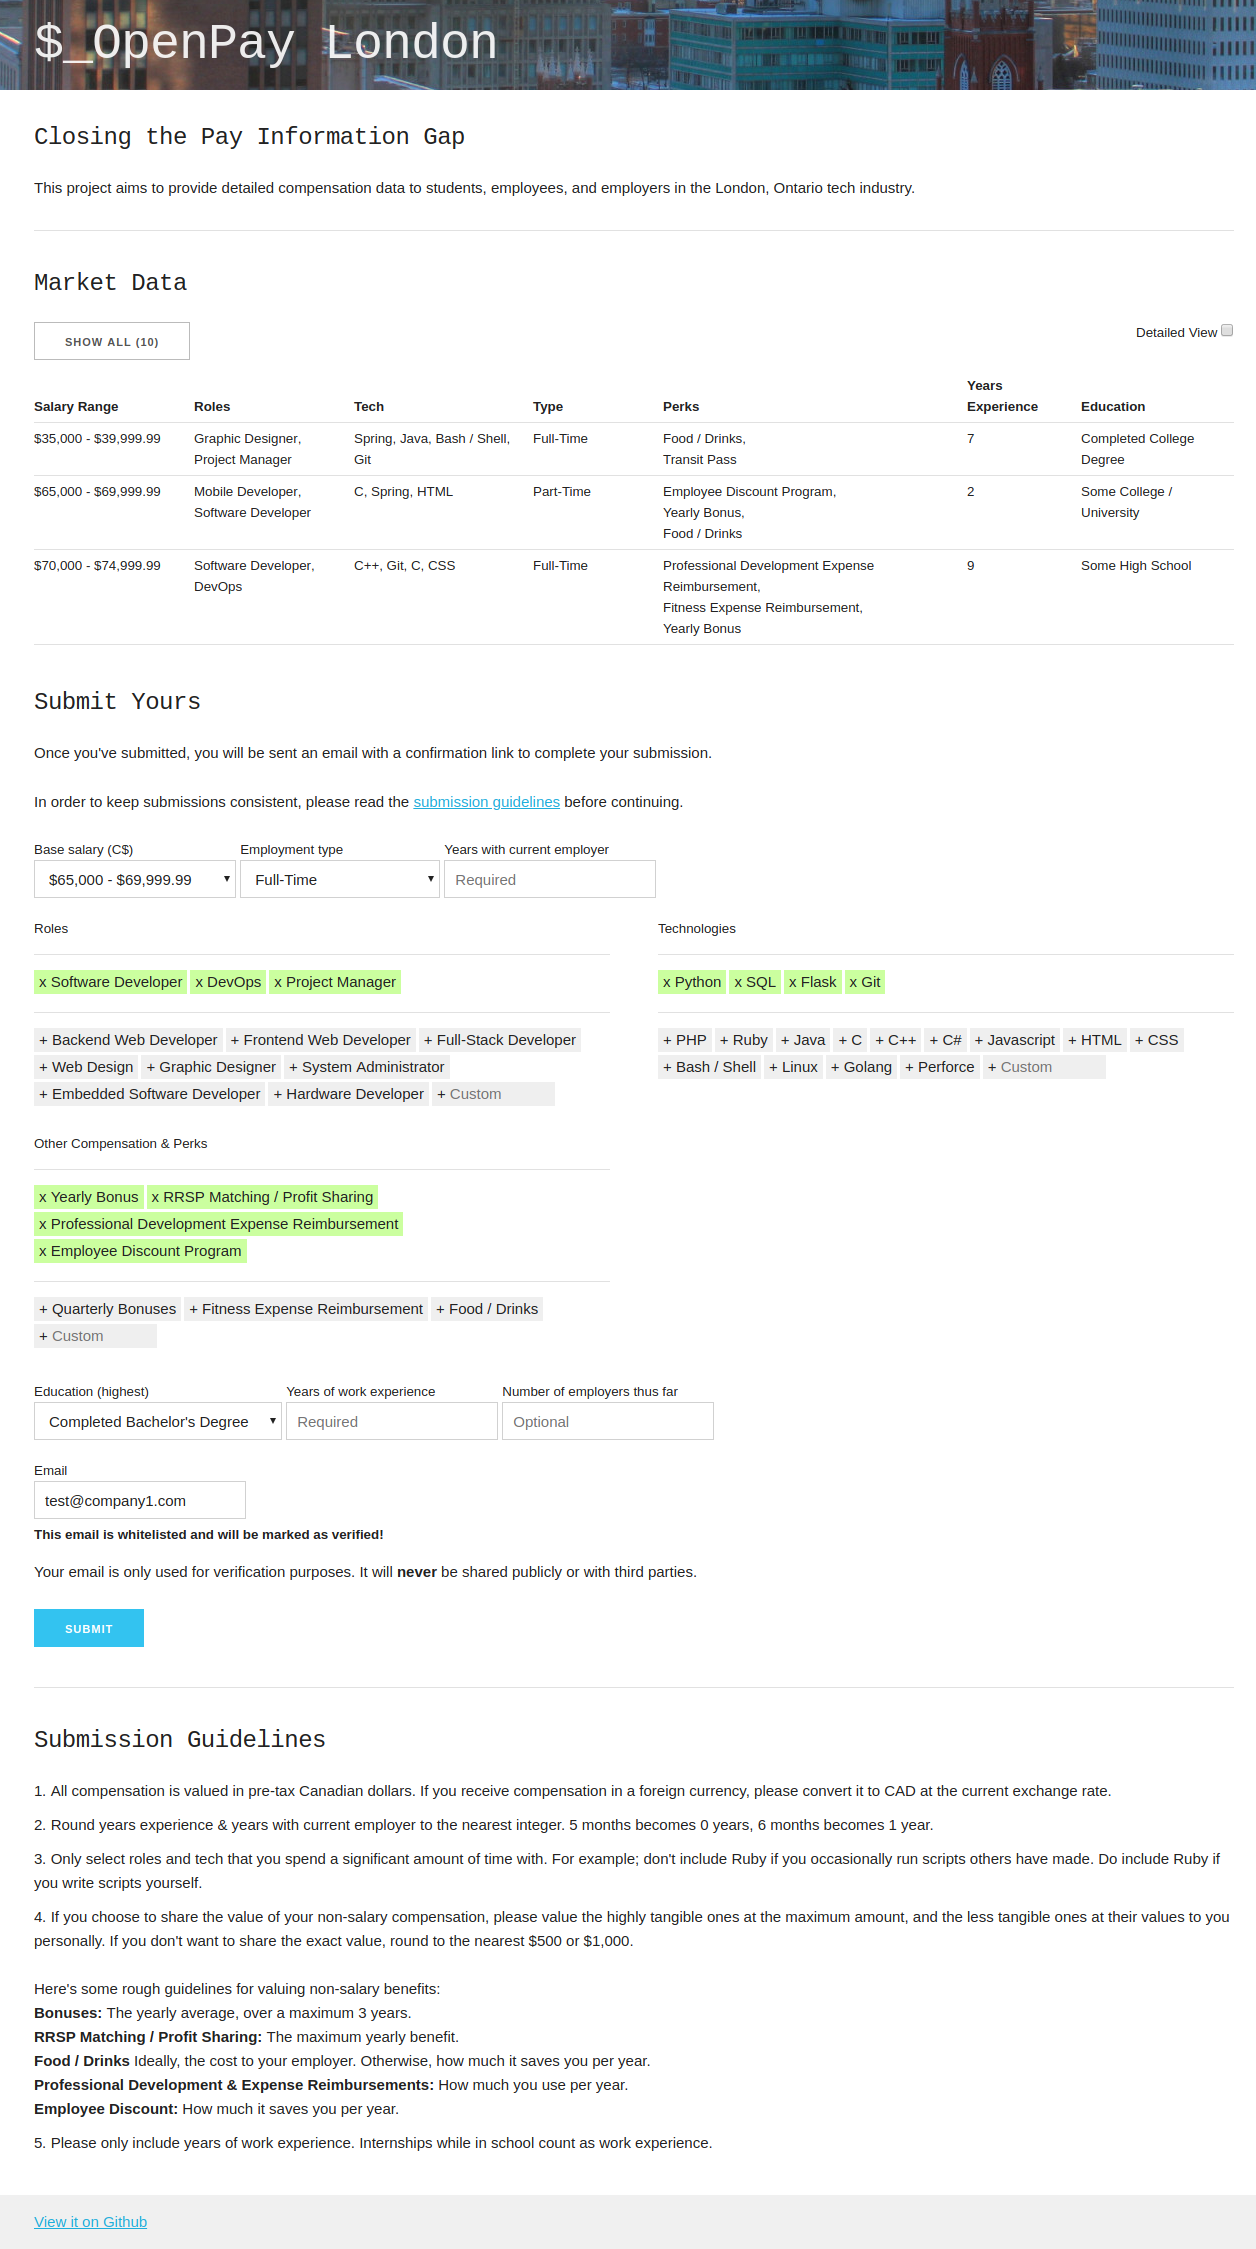
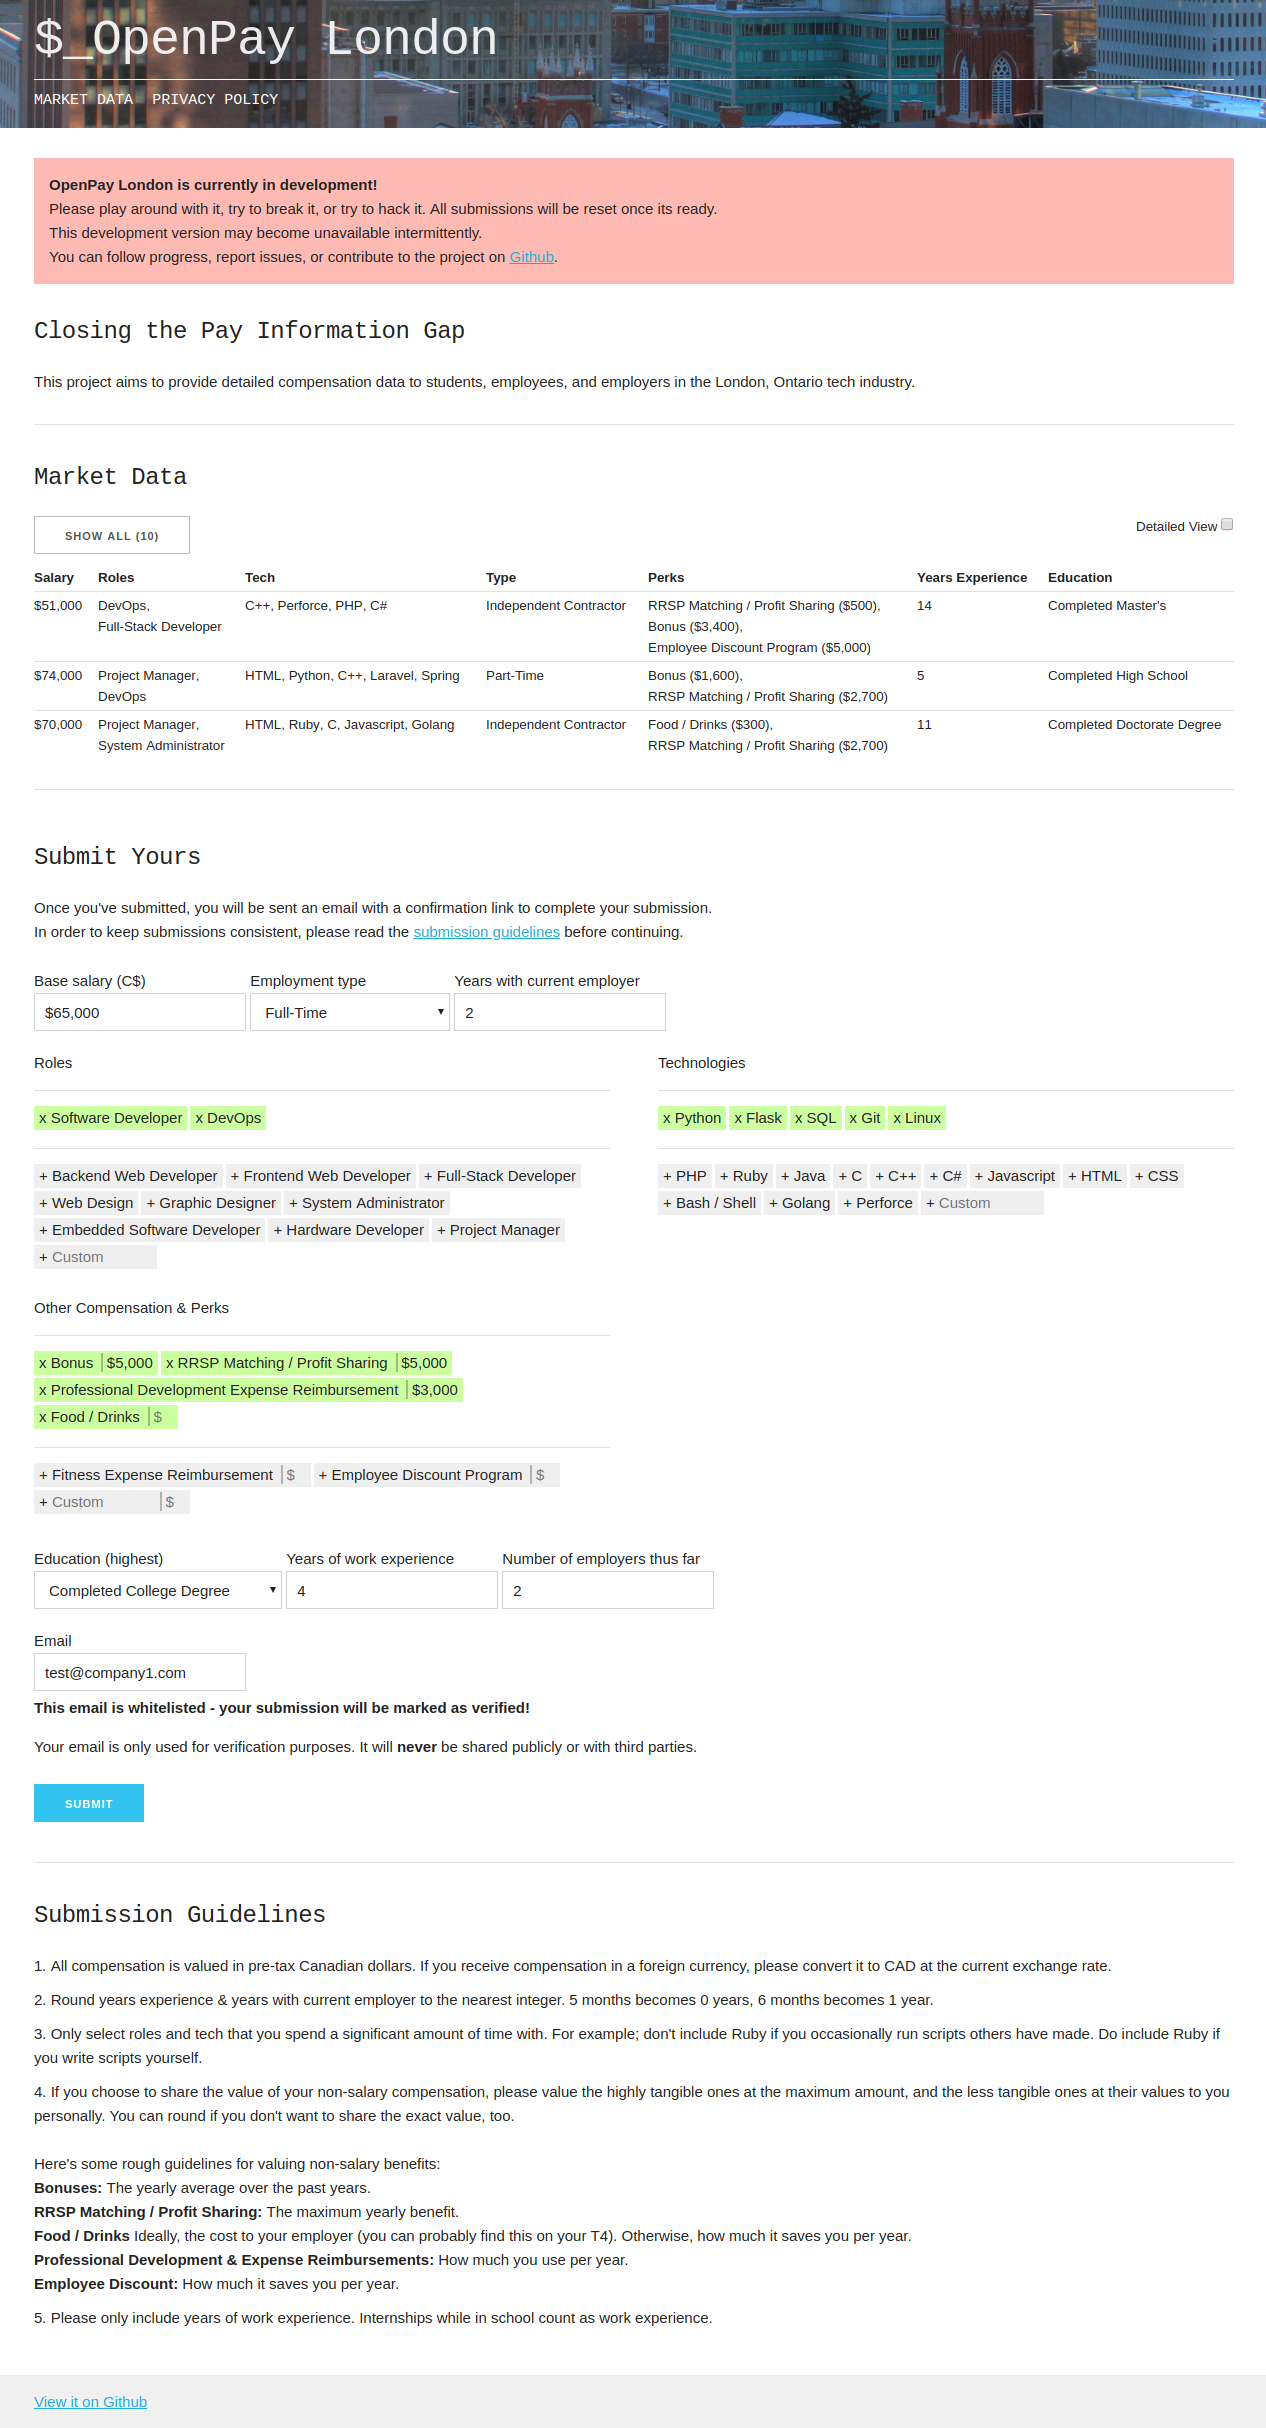
Added privacy policy, basic navigation menu, updated README

diff --git a/src/templates/app.html b/src/templates/app.html
@@ -3,7 +3,7 @@
 {% block content %}
 {% if is_debug %}
 <div class="container debug">
-    <p><strong>OpenPay London is currently in development!</strong></p>
+    <p><strong>{{ config['DEPLOYMENT_NAME'] }} is currently in development!</strong></p>
     <p>Please play around with it, try to break it, or try to hack it. All submissions will be reset once its ready.</p>
     <p>This development version may become unavailable intermittently.</p>
     <p>You can follow progress, report issues, or contribute to the project on <a href="https://github.com/olestourko/open-tech-pay">Github</a>.</p>
@@ -13,7 +13,7 @@
 <div class="container">
     <h5>Closing the Pay Information Gap</h5>
     <p>This project aims to provide detailed compensation data to students, employees, and employers in the
-    London, Ontario tech industry.</p>
+    {{ config['REGION_NAME'] }} tech industry.</p>
     <hr>
 </div>
 
@@ -23,15 +23,16 @@
         message_bus: message_bus,
         submissions: submissions
         "></market-data>
+        <hr>
     </div>
 </section>
-
 <section id="submission">
     <div class="container">
         <!-- ko if: !submitted() -->
             <h5>Submit Yours</h5>
-                <p>Once you've submitted, you will be sent an email with a confirmation link to complete your submission.</p>
-                <p>In order to keep submissions consistent, please read the <a href="#submission-guidelines">submission guidelines</a> before continuing.</p>
+                <p>Once you've submitted, you will be sent an email with a confirmation link to complete your submission.<br>
+                In order to keep submissions consistent, please read the <a href="#submission-guidelines">submission guidelines</a> before continuing.
+                </p>
                 <create-submission params="
                 message_bus: message_bus,
                 employment_types: employment_types,

diff --git a/src/templates/base.html b/src/templates/base.html
@@ -4,9 +4,9 @@
     <head>
     <meta charset="UTF-8">
         {% if title is defined %}
-            <title>OpenPay London - {{ title }}</title>
+            <title>{{ config['DEPLOYMENT_NAME'] }} - {{ title }}</title>
         {% else %}
-            <title>OpenPay London - Tech Pay Sharing</title>
+            <title>{{ config['DEPLOYMENT_NAME'] }} - Tech Pay Sharing</title>
         {% endif %}
 
         <meta property="og:type" content="website"/>
@@ -36,7 +36,11 @@
     <body>
         <header>
             <div class="container">
-                <h1>$_OpenPay London</h1>
+                <h1>$_{{ config['DEPLOYMENT_NAME'] }}</h1>
+                <nav>
+                    <a href="{{ url_for('index', _external=True) }}">Market Data</a>
+                    <a href="{{ url_for('privacy_policy', _external=True) }}">Privacy Policy</a>
+                </nav>
             </div>
         </header>
         {% block content %}{% endblock %}

diff --git a/sass/app.scss b/sass/app.scss
@@ -60,6 +60,24 @@ header {
             color: rgba(255, 255, 255, 0.9);
         }
     }
+
+    nav {
+        border-top: 1px solid #ffffff;
+        margin-top: 0.5em;
+        padding-top: 0.5em;
+
+        a {
+            font-family: 'Courier', monospace;
+            color: rgba(255, 255, 255, 1.0);
+            text-decoration: none;
+            text-transform: uppercase;
+            margin-right: 1em;
+
+            &:hover {
+                color: rgba(255, 255, 255, 0.5);
+            }
+        }
+    }
 }
 
 th { vertical-align: bottom; }
@@ -85,6 +103,7 @@ th, td {
     table { width: 100%; }
     tr.verified { background-color: $verified_green; }
     .data-submitted { min-width: 80px; }
+    tr:last-of-type td { border-bottom: none; }
  }
 
 /* Submissions */

diff --git a/src/templates/privacy-policy.html b/src/templates/privacy-policy.html
@@ -1,0 +1,16 @@
+
+{% extends "base.html" %}
+{% block content %}
+<div class="container privacy-policy">
+    <h5>Privacy Policy</h5>
+    <hr>
+    <p><strong>What information does {{ config['DEPLOYMENT_NAME'] }} collect?</strong><br>
+    The only personally identifiable information collected is your email address, which is used to confirm
+    submissions and discourage multiple submissions from the same person.</p>
+
+    <p><strong>How is collected data used for?</strong><br>
+    Submission information is used to populate the market view.
+    Your email address will never be sold or otherwise shared with third parties.</p>
+    <hr>
+</div>
+{% endblock %}

diff --git a/src/static/knockout-templates/market-data.html b/src/static/knockout-templates/market-data.html
@@ -49,6 +49,5 @@
     </table>
     <!-- ko if: show_all() -->
     <button class="button-secondary" data-bind="text: view_button_text, click: toggle_shown"></button>
-    <hr>
     <!-- /ko -->
 </div>

diff --git a/example_config.py b/example_config.py
@@ -2,9 +2,13 @@ SQLALCHEMY_DATABASE_URI = 'postgresql://user:password@localhost/databasename'
 SQLALCHEMY_TRACK_MODIFICATIONS = False
 SERVER_NAME = 'localhost:5000' # Used by url_for()
 
-#Flask-Mail
+# Flask-Mail
 MAIL_SERVER = 'smtp'
 MAIL_PORT =  25
 MAIL_USE_SSL = False
 MAIL_USERNAME = ''
 MAIL_PASSWORD = ''
+
+# Used on the frontend for this particular deployment
+DEPLOYMENT_NAME = 'OpenPay'
+REGION_NAME = 'Region'

diff --git a/src/application.py b/src/application.py
@@ -196,3 +196,8 @@ def confirm():
         succeeded = hlm.confirm_submission(request.args['confirmation_code']) is not None
 
     return render_template('confirm.html', succeeded=succeeded)
+
+
+@app.route('/privacy_policy')
+def privacy_policy():
+    return render_template('privacy-policy.html')

diff --git a/README.md b/README.md
@@ -17,12 +17,33 @@ A web application for sharing local tech industry compensation. It aims to freel
 ### Option 1: Running With Docker 
 
 You can use [Docker](https://www.docker.com) to create a container which will grab all of the dependencies for you.
-  
-```
+  ```
 docker build -t open-tech-pay .
-docker run -v full/path/to/app:/app -p 5000:5000 --net="host" open-tech-pay
 ```
 
+You'll need to run the database migrations if you haven't:
+```
+docker run -v full/path/to/app:/app -p 5000:5000 --net="host" open-tech-pay flask db init
+docker run -v full/path/to/app:/app -p 5000:5000 --net="host" open-tech-pay flask db migrate
+docker run -v full/path/to/app:/app -p 5000:5000 --net="host" open-tech-pay flask db upgrade
+```
+
+Install frontend packages and compile SASS:
+```
+docker run -v full/path/to/app:/app -p 5000:5000 --net="host" open-tech-pay yarn install
+docker run -v full/path/to/app:/app -p 5000:5000 --net="host" open-tech-pay sass --watch sass:src/static/stylesheet
+```
+
+Run the application container:
+```
+docker run -v full/path/to/app:/app -p 5000:5000 --net="host" open-tech-pay flask db init
+```
+or
+```
+docker-compose up
+```
+
+---
 
 ### Option 2: Installing Dependencies
 
